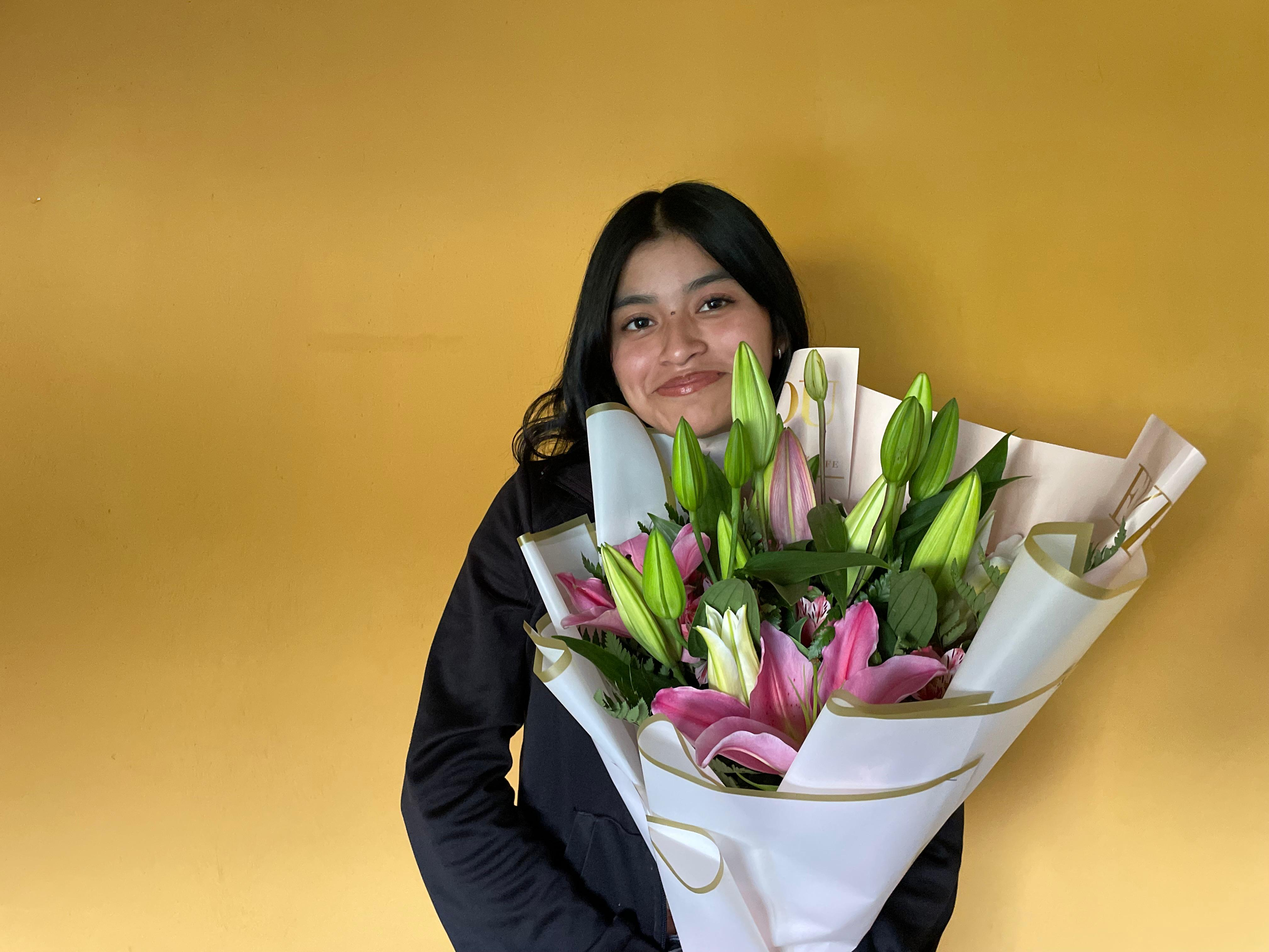
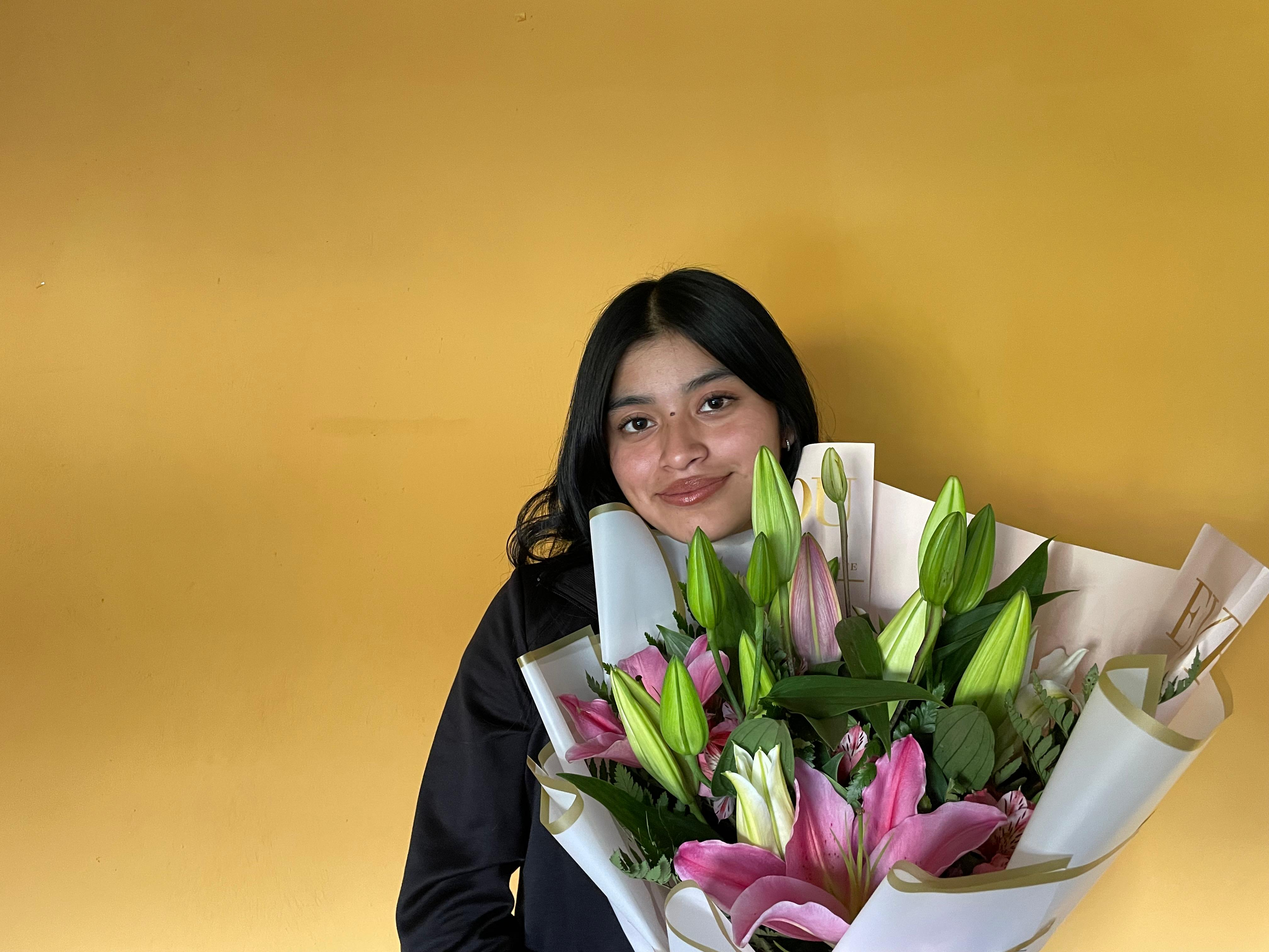
Add files via upload

diff --git a/index.html b/index.html
@@ -357,7 +357,7 @@
 
         <div class="collage">
             <img src="Image 2025-08-22 at 8.56.25 PM.jpeg"alt="Foto 1">
-            <img src="Image 2.JPEG"alt="Foto 2">
+            <img src="Image 2025-08-22 at 8.56.26 PM (1).jpeg"alt="Foto 2">
             <img src="Image 3.JPEG"alt="Foto 3">
             <img src="Image 4.JPEG"alt="Foto 4">
             <div class="mensaje-frase">
